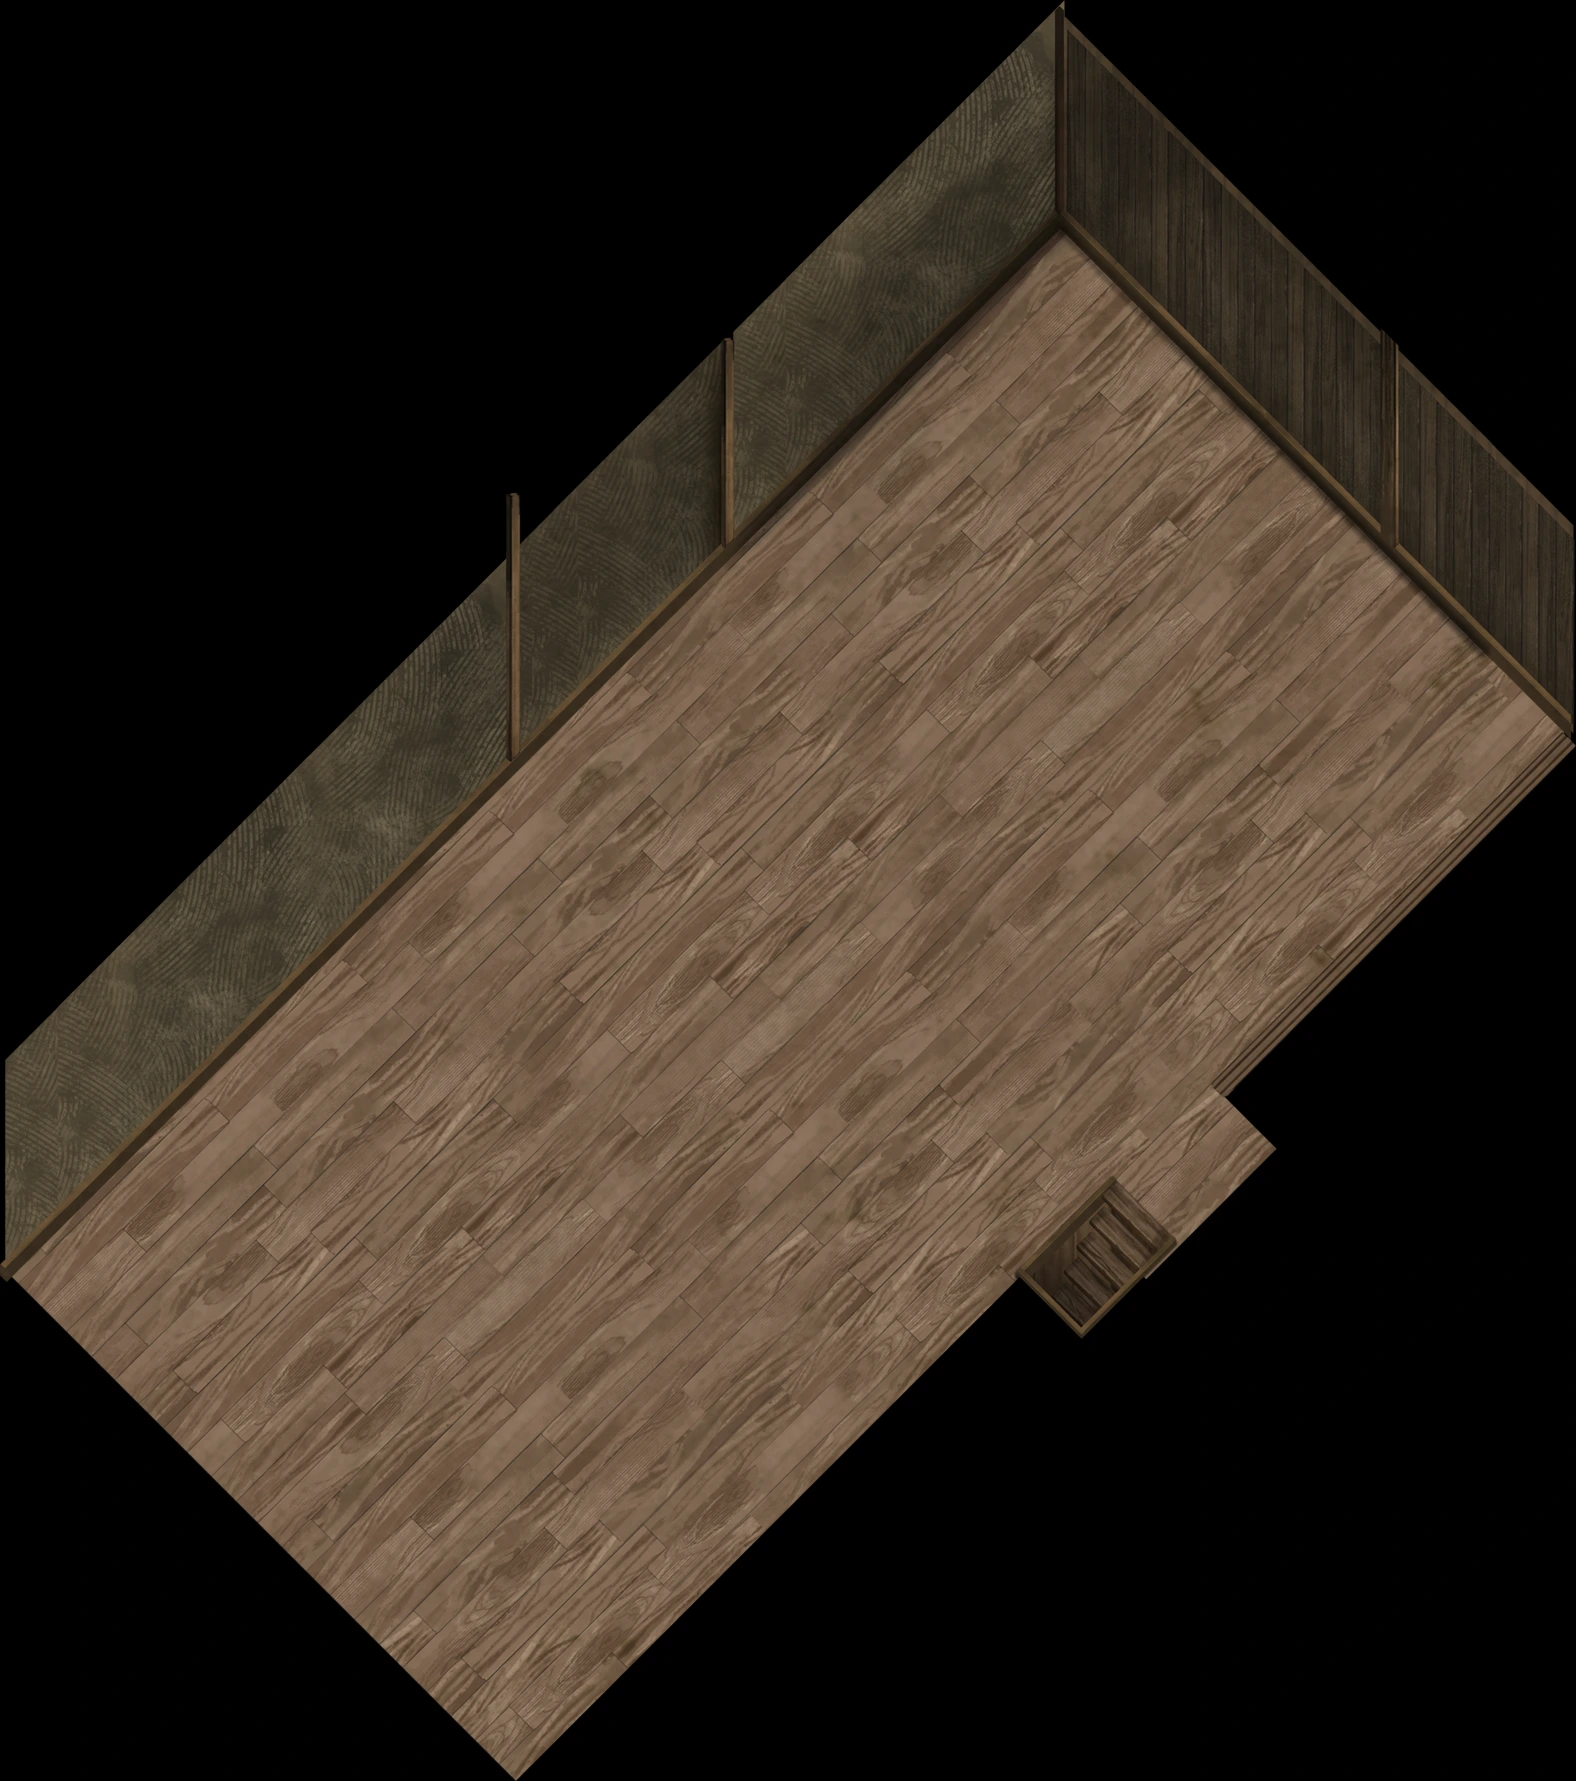
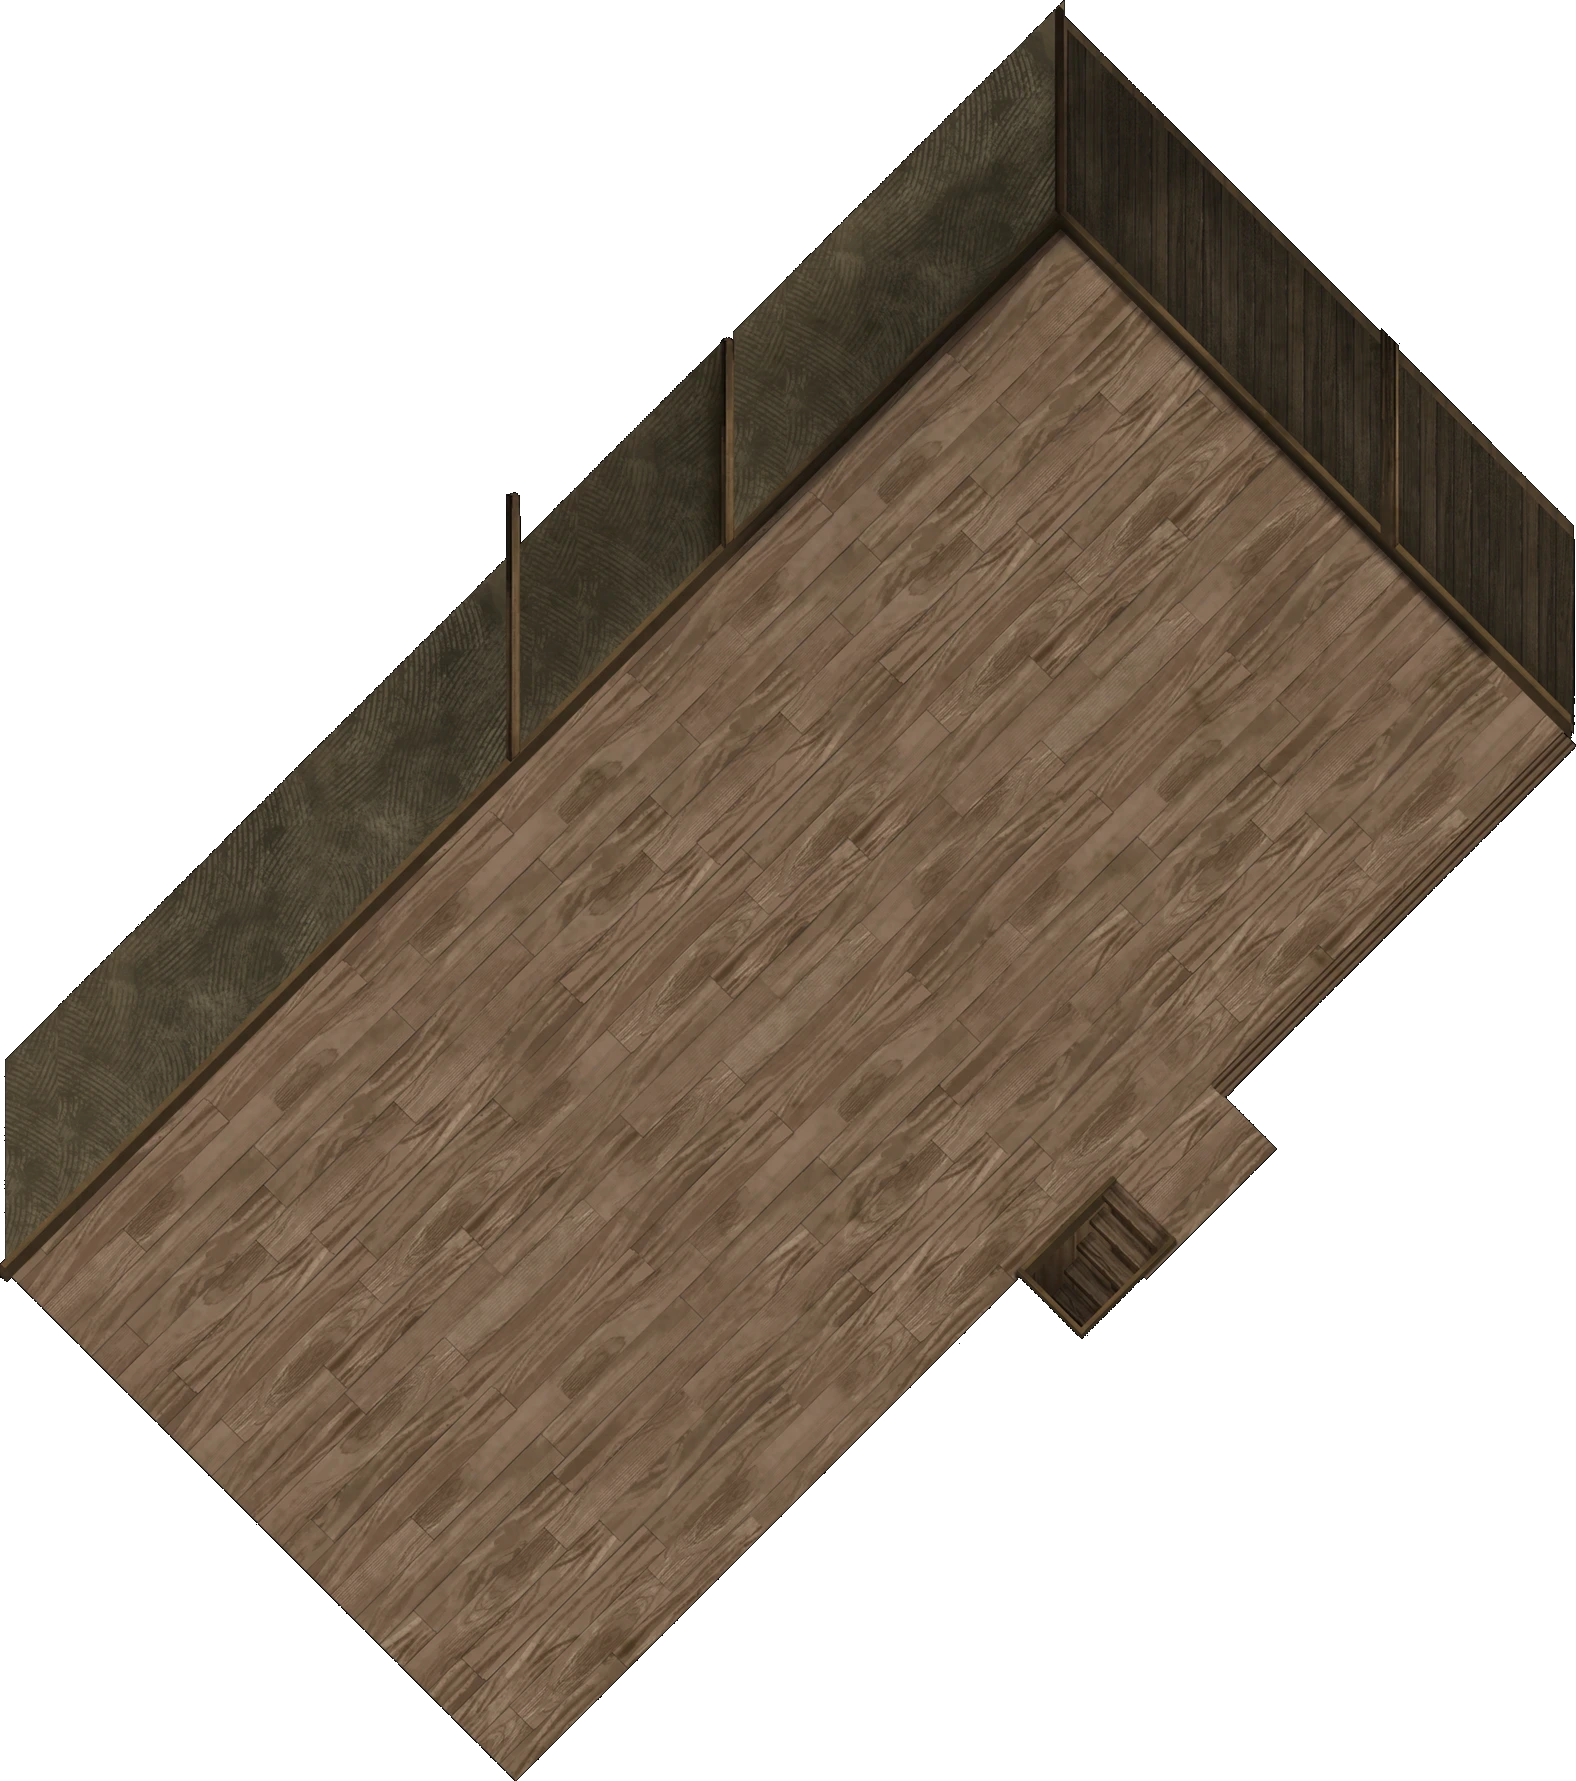
fix(map): make the area outside room interiors transparent
Room art was cropped to a rectangle, so the dark void around each
interior covered the farm beneath it. Flood-fill the unlit border to
alpha when the room images are extracted.

diff --git a/tools/extract-map-art.py b/tools/extract-map-art.py
@@ -9,7 +9,7 @@ import zlib
 from functools import lru_cache
 from pathlib import Path
 
-from PIL import Image, ImageChops
+from PIL import Image, ImageChops, ImageDraw
 
 from honogurashi_extractor.archive import FafullfsArchive
 from honogurashi_extractor.gimmick import gimmick_features
@@ -22,6 +22,18 @@ ROOT = Path(__file__).resolve().parents[1]
 SEASONS = ('spr', 'sum', 'aut', 'win')
 # Build 25311578 adds farmland east of the old area (farmable cells reach x=16020).
 BOUNDS = (7936, 18688, 17408, 27648)
+
+
+def clear_outside(image: Image.Image) -> Image.Image:
+    """Make the black canvas around a room transparent. Flooding from the border keeps dark art inside the room."""
+    rgba = image.convert('RGBA')
+    r, g, b, _ = rgba.split()
+    lit = ImageChops.lighter(ImageChops.lighter(r, g), b).point(lambda p: 255 if p > 8 else 0)
+    mask = Image.new('L', (rgba.width + 2, rgba.height + 2), 0)
+    mask.paste(lit, (1, 1))
+    ImageDraw.floodfill(mask, (0, 0), 128)
+    rgba.putalpha(mask.crop((1, 1, rgba.width + 1, rgba.height + 1)).point(lambda p: 0 if p == 128 else 255))
+    return rgba
 
 
 def save_rules(metadata):
@@ -149,7 +161,7 @@ def main():
                 cropped = crop.crop(tight)
                 local = [cut[0]+tight[0],cut[1]+tight[1],cut[0]+tight[2],cut[1]+tight[3]]
                 file = f'rooms/{Path(path).stem}-{index}.webp'
-                cropped.save(dest/file, quality=92, method=4)
+                clear_outside(cropped).save(dest/file, quality=92, method=4)
                 floors.append({'file': file, 'bounds': local})
             room_cache[path] = floors
         metadata['rooms'][str(scene['id'])] = [
